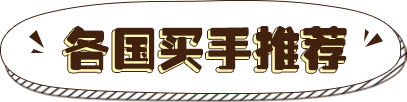
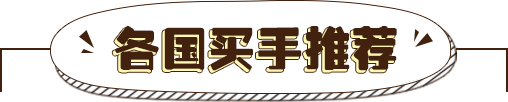
转转乐 调整 模块标题重新换图

diff --git a/app/gwj/index.html b/app/gwj/index.html
@@ -19,9 +19,7 @@
   <body>
     <!--热门买手-->
     <script id="buyerList" type="text/template">
-        <div class="gwj-title-wapper">
-            <div class="gwj-title gwj-title-04"></div>
-        </div>
+        <div class="gwj-title-wapper gwj-title-04"></div>
         <div class="gwj-area-body buyer-set-wrapper">
         {{ for(var i=0,data=HotBuyerList,len=Math.min(data.length,6);i<len;i++){ }}
             <div class="buyer-set-item J-open" data-url="LiveUrl" data-title="直播详情">
@@ -37,9 +35,7 @@
     </script>
     <!--洋货团-->
     <script id="foreignIndex" type="text/template">
-        <div class="gwj-title-wapper">
-            <div class="gwj-title gwj-title-03"></div>
-        </div>
+        <div class="gwj-title-wapper gwj-title-03"></div>
         <!--好货大搜罗-->
         <div class="gwj-area-body ">
             {{ for(var i=0,len = PageParts.length,j=0,data,jLen=0;i<len;i++){ }}
@@ -84,9 +80,7 @@
     </script>
 
     <script id="explosive-pro"  type="text/template">
-        <div class="gwj-title-wapper">
-            <div class="gwj-title gwj-title-05"></div>
-        </div>
+        <div class="gwj-title-wapper gwj-title-05"></div>
         <div class="gwj-area-body explosive-pro-tab">
             <ul class="tab-header">
                 <li class="active" data-aid="2911" data-pid="262"> 亚洲</li>
@@ -125,9 +119,7 @@
     </script>
     <!--双11-->
     <script id="cheap-tpl" type="text/template">
-        <div class="gwj-title-wapper">
-            <div class="gwj-title gwj-title-06"></div>
-        </div>
+        <div class="gwj-title-wapper gwj-title-06"></div>
         <div class="gwj-area-body cheap-wrapper">
         {{ for(var i =0,len=Products.length;i<Math.min(len,6);i++){ }}
             <div class="explosive-pro-item">
@@ -161,78 +153,95 @@
         </div>
     </div>
       <div class="turntable-wrapper" id="gwj_01">
-          <div class="gwj-title-wapper">
-              <div class="gwj-title gwj-title-pk"></div>
-          </div>
+          <div class="gwj-title-wapper"></div>
           <div class="turntable-header"></div>
           <div class="turntable-body">
               <div class="turntable-box">
-                  <div class="board active">
-                    <div class="img"></div>
-                    <div class="txt">
-                      APPLE WATCH
-                    </div>
-                  </div>
-                  <div class="board">
-                    <div class="coupon">
-                    <small>&yen;</small>5<span>元</span>
-                    </div>
-                    <div class="txt">
-                      现金抵用券
-                    </div>
-                  </div>
-                  <div class="board">
-                    <div class="coupon">
-                    <small>&yen;</small>50<span>元</span>
-                    </div>
-                    <div class="txt">
-                      现金抵用券
-                    </div>
-                  </div>
-                  <div class="board">
-                      <div class="coupon">
-                      <small>&yen;</small>5<span>元</span>
-                      </div>
-                      <div class="txt">
-                        现金抵用券
+                  <div class="turntable-grid">
+                      <div class="board active">
+                        <div class="img"></div>
+                        <div class="txt">
+                          APPLE WATCH
+                        </div>
                       </div>
                   </div>
-                  <button class="starter J-turntable-run" onclick=";">
-                      <div class="btn">
+                  <div class="turntable-grid">
+                      <div class="board">
+                        <div class="coupon">
+                        <small>&yen;</small>5<span>元</span>
+                        </div>
+                        <div class="txt">
+                          现金抵用券
+                        </div>
+                      </div>
+                  </div>
+                  <div class="turntable-grid">
+                      <div class="board">
+                        <div class="coupon">
+                        <small>&yen;</small>50<span>元</span>
+                        </div>
+                        <div class="txt">
+                          现金抵用券
+                        </div>
+                      </div>
+                  </div>
+                  <div class="turntable-grid">
+                      <div class="board">
+                          <div class="coupon">
+                          <small>&yen;</small>5<span>元</span>
+                          </div>
+                          <div class="txt">
+                            现金抵用券
+                          </div>
+                      </div>
+                  </div>
+                  <div class="turntable-grid">
+                      <button class="starter J-turntable-run" onclick=";">
+                          <div class="btn">
 
-                      </div>
-                      <div class="start_txt">
+                          </div>
+                          <div class="start_txt">
 
+                          </div>
+                      </button>
+                  </div>
+                  <div class="turntable-grid">
+                      <div class="board">
+                        <div class="coupon">
+                        <small>&yen;</small>300<span>元</span>
+                        </div>
+                        <div class="txt">
+                          现金抵用券
+                        </div>
                       </div>
-                  </button>
-                  <div class="board">
-                    <div class="coupon">
-                    <small>&yen;</small>300<span>元</span>
-                    </div>
-                    <div class="txt">
-                      现金抵用券
-                    </div>
                   </div>
-                  <div class="board">
-                    <div class="coupon">
-                    <small>&yen;</small>100<span>元</span>
-                    </div>
-                    <div class="txt">
-                      现金抵用券
-                    </div>
+                  <div class="turntable-grid">
+                      <div class="board">
+                        <div class="coupon">
+                        <small>&yen;</small>100<span>元</span>
+                        </div>
+                        <div class="txt">
+                          现金抵用券
+                        </div>
+                      </div>
                   </div>
-                  <div class="board">
-                    <div class="coupon">
-                    <small>&yen;</small>20<span>元</span>
-                    </div>
-                    <div class="txt">
-                      现金抵用券
-                    </div>
+                  <div class="turntable-grid">
+                      <div class="board">
+                        <div class="coupon">
+                        <small>&yen;</small>20<span>元</span>
+                        </div>
+                        <div class="txt">
+                          现金抵用券
+                        </div>
+                      </div>
+
                   </div>
-                  <div class="board">
-                    <div class="txt big-txt">
-                      谢谢参与
-                    </div>
+                  <div class="turntable-grid">
+                      <div class="board">
+                        <div class="txt big-txt">
+                          谢谢参与
+                        </div>
+                      </div>
                   </div>
               </div>
           </div>
@@ -263,9 +272,7 @@
         </cheap>
     </div>
       <div class="gwj-area" id="gwj_02">
-        <div class="gwj-title-wapper">
-            <div class="gwj-title gwj-title-02"></div>
-        </div>
+        <div class="gwj-title-wapper gwj-title-02"></div>
         <div class="gwj-area-body">
             <!--砍价团-->
             <div class="gwj-group ">

diff --git a/app/styles/gwj/index.scss b/app/styles/gwj/index.scss
@@ -96,13 +96,25 @@ $rem:1rem/32;
 
 //标题栏
 .gwj-title-wapper{
-    height:$rem*67;
-    width:$rem*490;
-    border:1px solid #42210e;
-    border-bottom:0;
-    position:relative;
-    margin: 0 auto;
-    margin-top:$rem*70;
+    height:$rem*102;
+    width:100%;
+    background: url(/images/gwj/title_01.png) no-repeat center bottom;
+    margin-bottom:$rem*20;
+    &.gwj-title-02{
+       background-image: url(/images/gwj/title_02.png) ;
+    }
+    &.gwj-title-03{
+       background-image: url(/images/gwj/title_03.png) ;
+    }
+    &.gwj-title-04{
+       background-image: url(/images/gwj/title_04.png) ;
+    }
+    &.gwj-title-05{
+       background-image: url(/images/gwj/title_05.png) ;
+    }
+    &.gwj-title-06{
+       background-image: url(/images/gwj/title_06.png) ;
+    }
     .gwj-title{
         width:$rem*390;
         height:$rem*97;
@@ -198,22 +210,30 @@ $rem:1rem/32;
     background:#fff url(/images/gwj/turntable_body.png);
     background-repeat-x: no-repeat;
     background-size: 100%;
-    padding:$rem*20;
+
   }
   &-box{
     overflow:hidden;
     //margin-right:$rem*-8;
+
     position:relative;
-    &>div,
+    padding:$rem*20;
+    width:100%;
+    .turntable-grid{
+        width:33.3333%;
+         float:left;
+         margin-bottom:$rem*10;
+         padding-right:$rem*10;
+    }
+    .board,
     .starter{
-      width:$rem*170;
+      width: 100%;
       height:$rem*170;
-      float:left;
-      border:$rem solid #612922;
-      margin-right:$rem*10;
-      margin-bottom:$rem*10;
+      display:block;
+      //float:left;
+      border:1px solid #612922;
       &:nth-child(3n){
-        margin-right:0;
+        //margin-right:0;
       }
     }
     .board{
